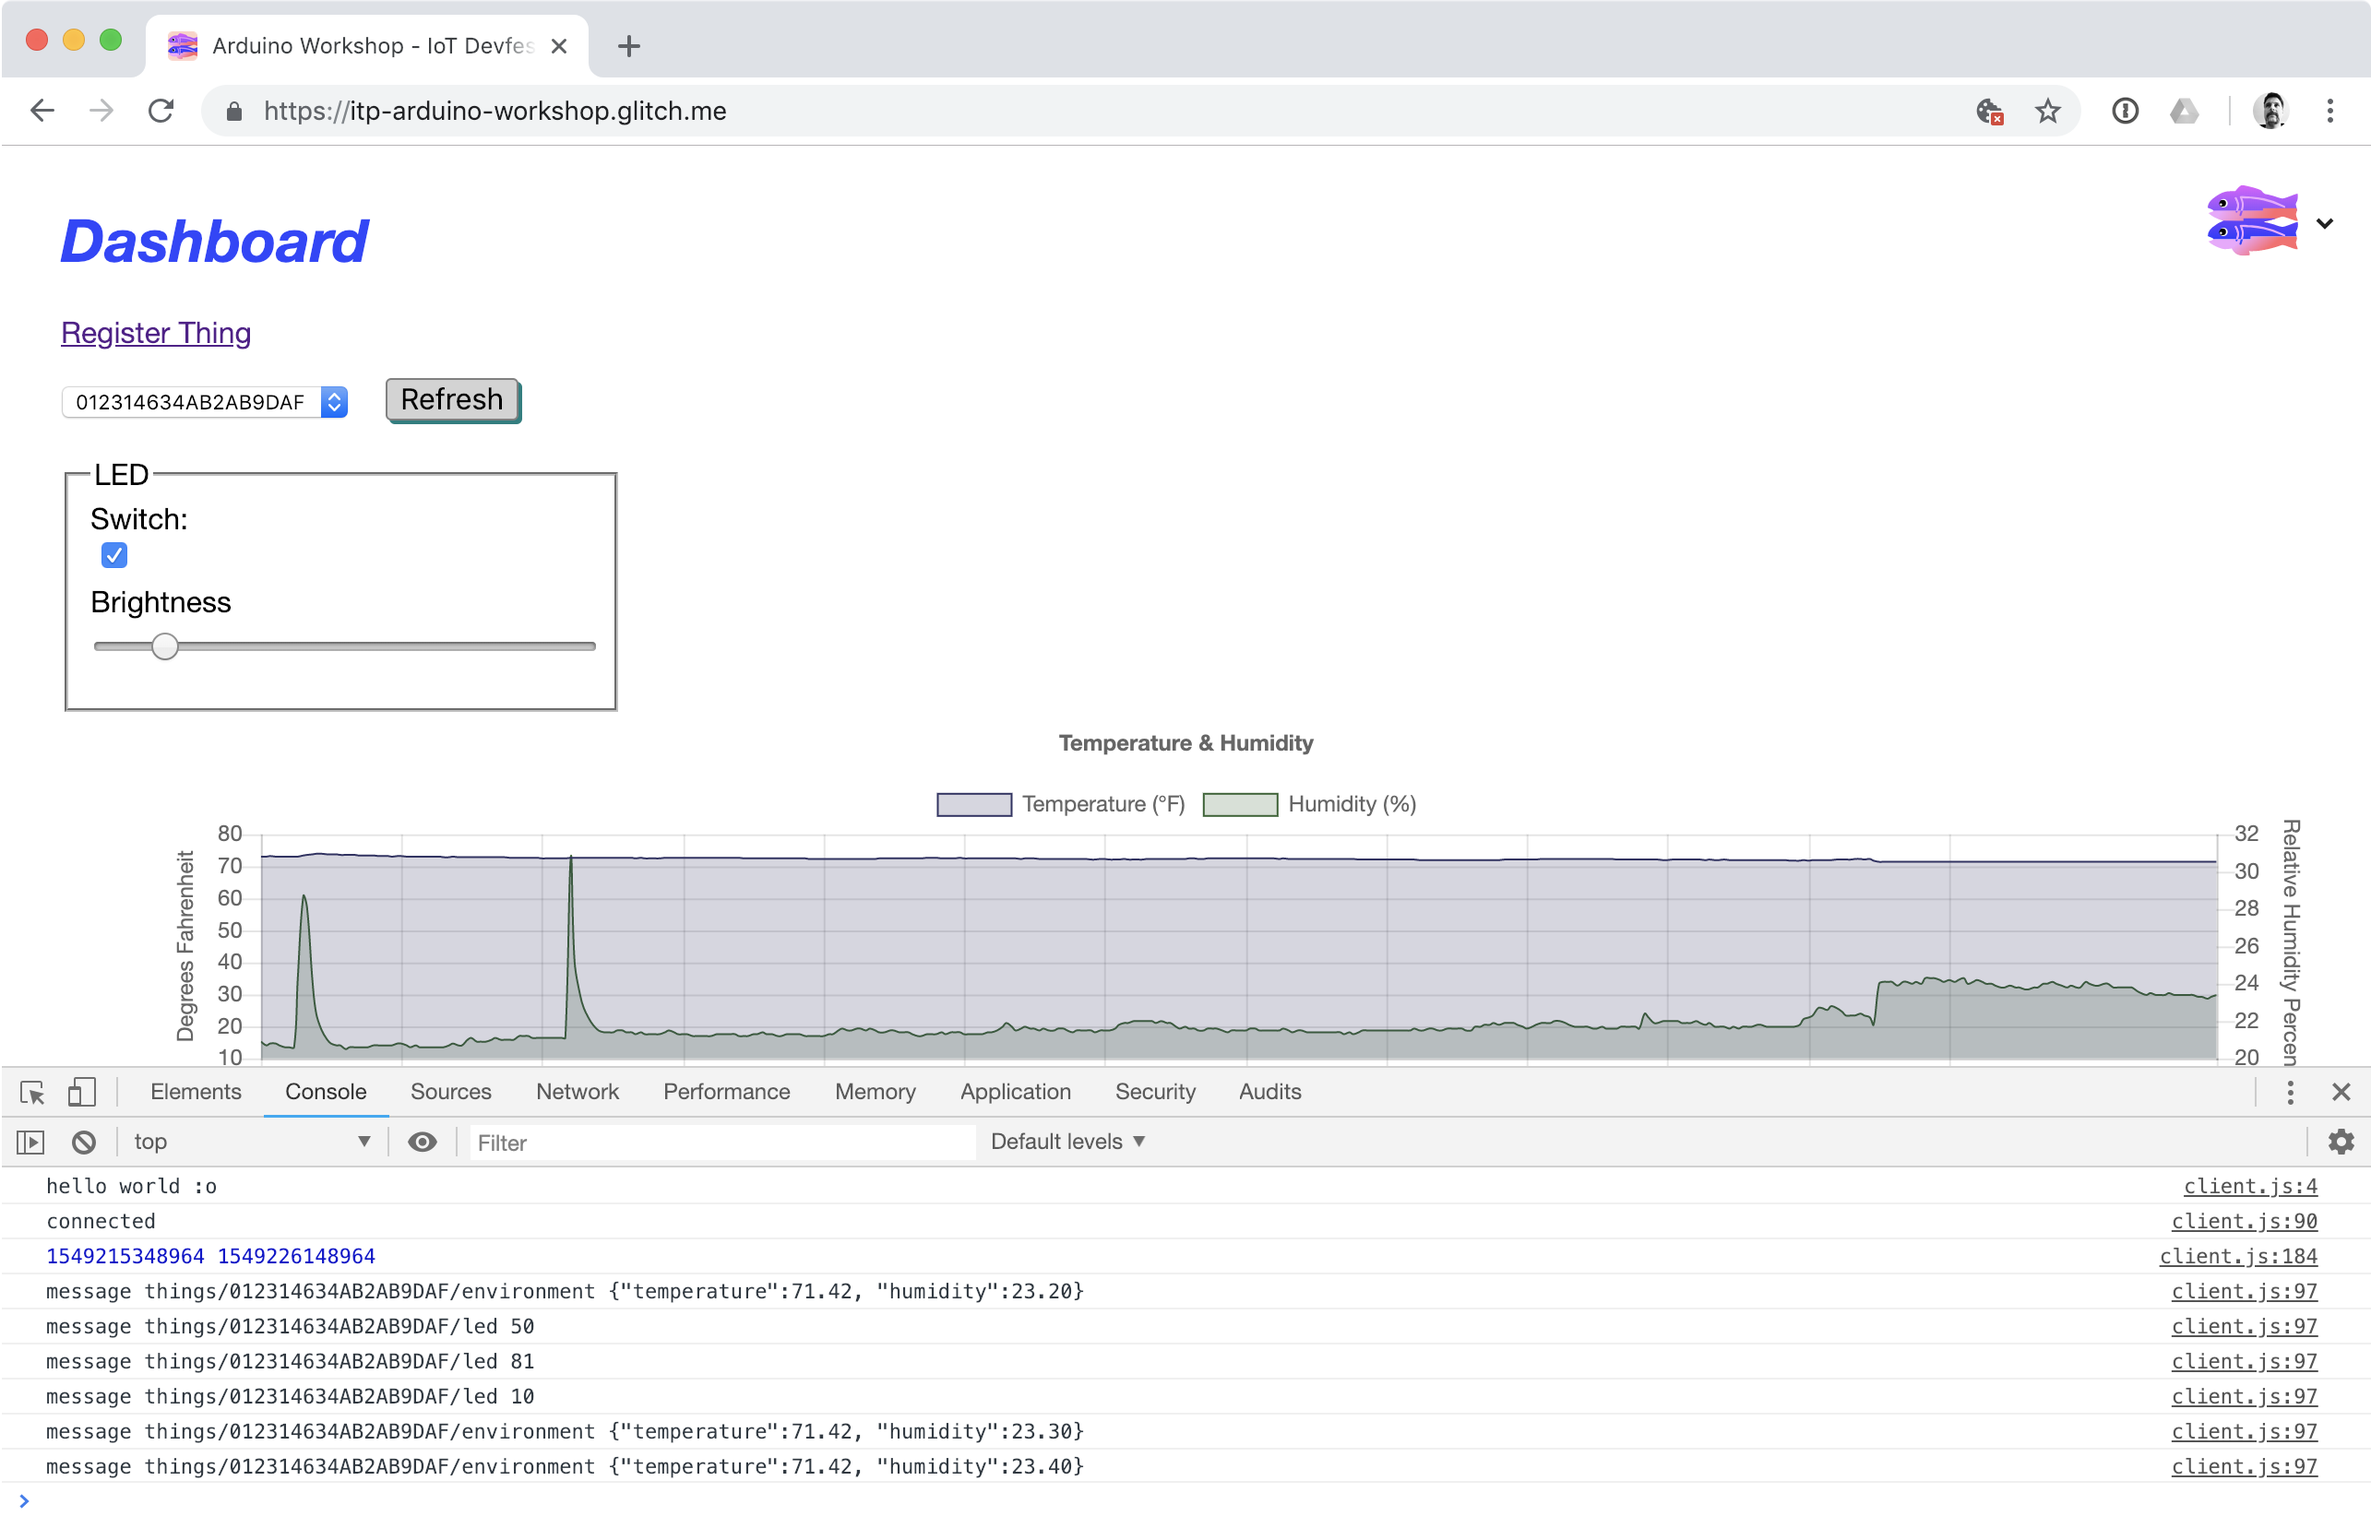
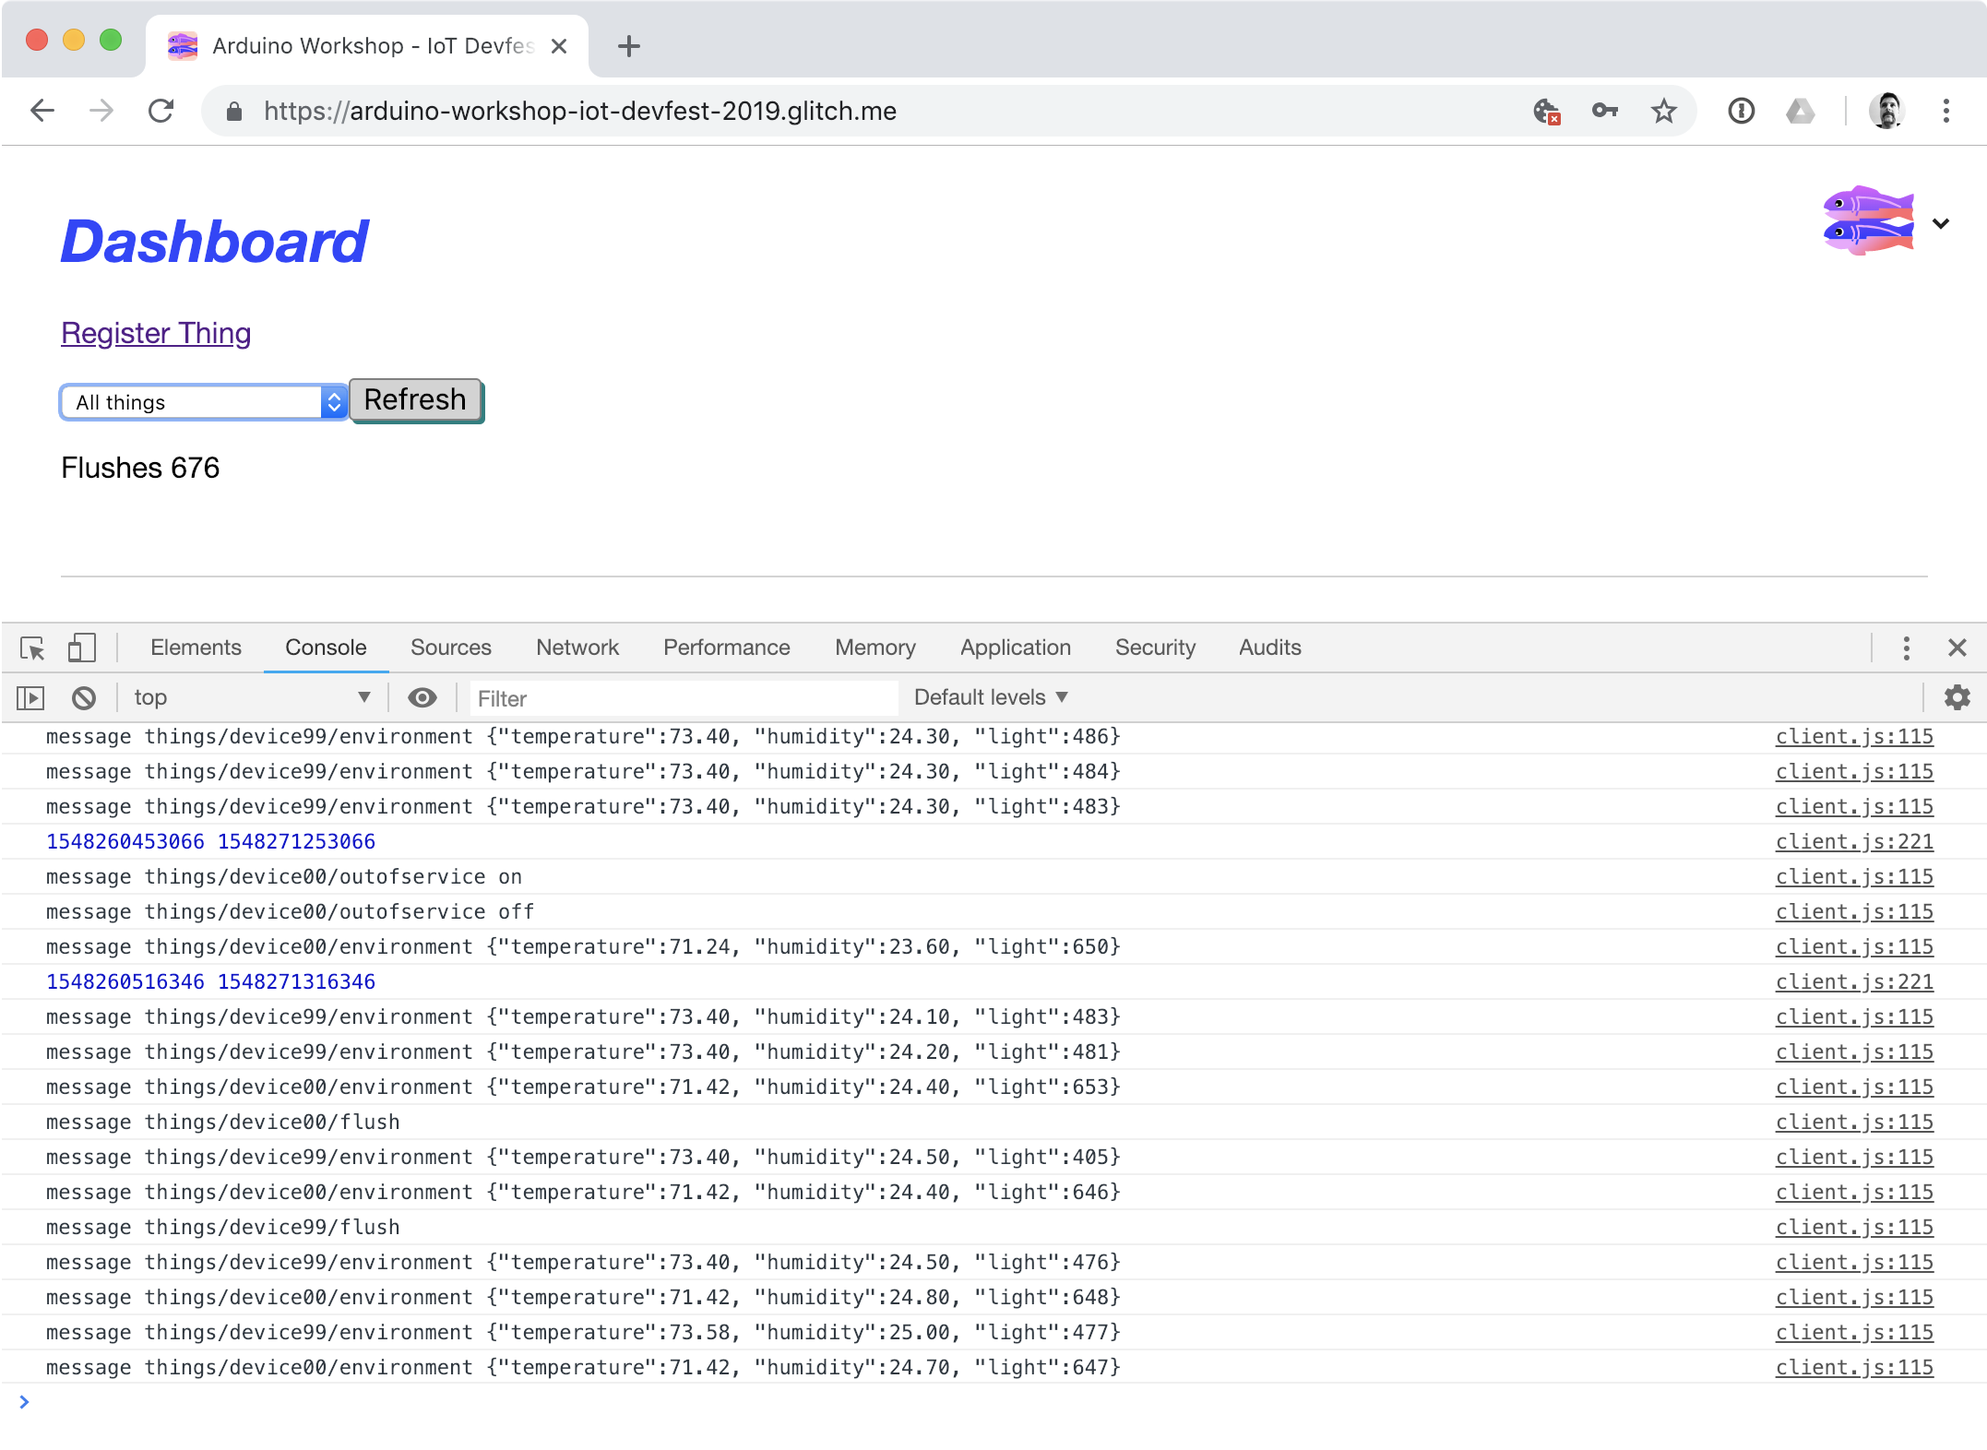
AWS

diff --git a/arduino/SmartToilet/config.h b/arduino/SmartToilet/config.h
@@ -1,0 +1,10 @@
+const char WIFI_SSID[] = "";
+const char WIFI_PASS[] = "";
+
+const char MQTT_BROKER[] = "xxxxxxxxxxxxxx.iot.xx-xxxx-x.amazonaws.com";
+
+const char CERTIFICATE[] = R"(
+-----BEGIN CERTIFICATE-----
+
+-----END CERTIFICATE-----
+)";

diff --git a/exercises/exercise8.md b/exercises/exercise8.md
@@ -1,22 +1,44 @@
 # Exercise 8: Running the Prototype
 
-Now that then config has been setup in the preview exercise, we are ready to upload the AWS sketch on to our board.
+Now that the config has been setup in the preview exercise, we are ready to upload the SmartToilet sketch onto our board.
 
 1. Upload the code to the board _Sketch -> Upload_
 1. Open the serial monitor to view status updates of what the sketch is doing.
 
-    On boot the sketch configures the temperature sensor and LED, in a similiar way as the previous exercises. It also setups up the crypto element and along the certificate needed for the secure connection to AWS IoT Core. After this is complete it will attempt to connect to the local WiFi network and then once this is succesfully complete, it will attempt to connect to the AWS IoT MQTT broker.
-1. Open https://itp-arduino-workshop.glitch.me/
+    On boot the sketch configures all the sensors and actuators attach on the breadboard, in a similiar way as the previous exercises. It also setups up the crypto element and along the certificate needed for the secure connection to AWS IoT Core. After this is complete it will attempt to connect to the local WiFi network and then once this is succesfully complete, it will attempt to connect to the AWS IoT MQTT broker.
+1. Open https://chariotday.glitch.me/
 1. Login with the username and password provided by the instructors.
 1. Select your device in the drop down.
 
     ![Screenshot of Dashboard](images/dashboard-device-dropdown.png)
 
-1. You will see a real-time graph of the environment data sent by the sketch. Every 10 seconds, sensor data is sent to the "things/*0123456789ABCDEF01*/environment" topic in JSON format. The cloud infrastructure saves this data to a database. The web page creates the graph with data from the database and then subscribes to the same topic appending new data to the graph as it arrives.
+1. You will see a real-time graph of the environment data sent by the sketch. Every 10 seconds, sensor data is sent to the `things/DEVICE_ID/environment` topic in JSON format. The cloud infrastructure saves this data to a database. The web page creates the graph with data from the database and then subscribes to the same topic appending new data to the graph as it arrives.
 
     ![Screenshot of Dashboard](images/dashboard-device.png)
 
-1. Use the radio buttons or range slider to control the LED on your device. The program sends a  MQTT message to the "things/*0123456789ABCDEF01*/led" topic with a brightness value.
+1. Press the button on the Arduino to simulate a flush. The program sends a MQTT message to the `things/DEVICE_ID/flush` topic and the servo will move 45 degrees. The flush count on the web page will increase by one. The cloud infrastructure saves this event to a database.
+
+    ![Screenshot of Dashboard](images/dashboard-flush-increase-count.png)
+
+1. Click the "Remote flush button" on the web page, the browser will send a MQTT message to the "things/device*XX*/remoteflush" topic. When the board receives the message, it will perform a flush operation.
+
+    ![Screenshot of Dashboard](images/dashboard-remote-flush.png)
+
+1. Check the "Out of service" checkbox on the webpage, the browser will send an "on" message to the `things/DEVICE_ID/outofservice` topic. This activates the out of service indicator LED. When in out of service mode, the button does not trigger. Press the button to confirm no flushing operation is complete.
+
+    ![Screenshot of Dashboard](images/dashboard-out-of-service.png)
+
+1. Uncheck the "Out of service" checkbox on the webpage, the browser will send an "off" message to the `things/DEVICE_ID/outofservice` topic. The out of service indicator LED will turn off, and flushes can now be triggered via the button.
+
+    ![Screenshot of Dashboard](images/dashboard-back-in-service.png)
+
+1. Select "All things" in the drop down on the webpage. The web page is subscribed to the `things/+/flush` topic (with wildcard for device id). You will see a global flush count. Press the button to trigger a flush, the count will increment.
+
+    ![Screenshot of Dashboard](images/dashboard-all-flush-count.png)
+
+1. Ask your neighbour to trigger a flush, the count will increment.
+
+    ![Screenshot of Dashboard](images/dashboard-all-flush-count-increase.png)
 
 ## Notes
 
@@ -31,7 +53,7 @@ Incoming MQTT messages are written to the console. If you open the browser debug
 The cloud infrastructure has been setup in a restrictive manner. AWS Core IoT has a policy applied to enforce the topics a device a device can access.
 
 * If you try to change the device id to something that is different from the certificate's common name, the MQTT connection will be refused.
-* If you try to publish or subscribe to topics outside "things/device*XX*/" the MQTT broker will disconnect the connection.
+* If you try to publish or subscribe to topics outside `things/DEVICE_ID/` the MQTT broker will disconnect the connection.
 
         /* Thing Policy */
         {
@@ -40,31 +62,29 @@ The cloud infrastructure has been setup in a restrictive manner. AWS Core IoT ha
                 {
                 "Effect": "Allow",
                 "Action": "iot:Connect",
-                "Resource": "arn:aws:iot:us-west-2:661516571298:client/${iot:Certificate.Subject.CommonName}"
+                "Resource": "arn:aws:iot:us-east-2:661516571298:client/${iot:Certificate.Subject.CommonName}"
                 },
                 {
                 "Effect": "Allow",
                 "Action": "iot:Publish",
-                "Resource": "arn:aws:iot:us-west-2:661516571298:topic/things/${iot:ClientId}/*"
+                "Resource": "arn:aws:iot:us-east-2:661516571298:topic/things/${iot:ClientId}/*"
                 },
                 {
                 "Effect": "Allow",
                 "Action": "iot:Subscribe",
-                "Resource": "arn:aws:iot:us-west-2:661516571298:topicfilter/things/${iot:ClientId}/*"
+                "Resource": "arn:aws:iot:us-east-2:661516571298:topicfilter/things/${iot:ClientId}/*"
                 },
                 {
                 "Effect": "Allow",
                 "Action": "iot:Receive",
-                "Resource": "arn:aws:iot:us-west-2:661516571298:topic/things/${iot:ClientId}/*"
+                "Resource": "arn:aws:iot:us-east-2:661516571298:topic/things/${iot:ClientId}/*"
                 }
             ]
         }
 
 
-## Server Code
-
-You can view the server code on Glitch https://glitch.com/edit/#!/itp-arduino-workshop
-
 ## Bonus
 
 The device serial number is a great way to manage a large number of devices, but it doesn't generate a friendly device name. Try creating a new X.509 certificate with a different Common Name. Adjust the Arduino code so the device can still connect. Remember there is an AWS policy in place for our Core IoT implementation that requires the client id to match the common name in the certificate.
+
+Use the light sensor to detect the usage time in seconds and send this time to the `things/DEVICE_ID/usage` topic. If the flush button is not pressed within 30 seconds of activity present, automatically trigger a flush on the device. 

diff --git a/exercises/exercise7.md b/exercises/exercise7.md
@@ -18,7 +18,7 @@ AWS requires client certificates to securely authenticate devices with IoT Core.
 
 Now that we have a CSR, we need to create a device in AWS IoT and get a certificate. This process can be done through the AWS Management Console or with the AWS API. For this workshop, we created a web form to automate the process.
 
-1. Open https://itp-arduino-workshop.glitch.me/
+1. Open https://chariotday.glitch.me/
 1. Login with the username and password provided by the instructors
 1. Click Register Thing
 1. Copy the CSR generated by Arduino and paste it into the form
